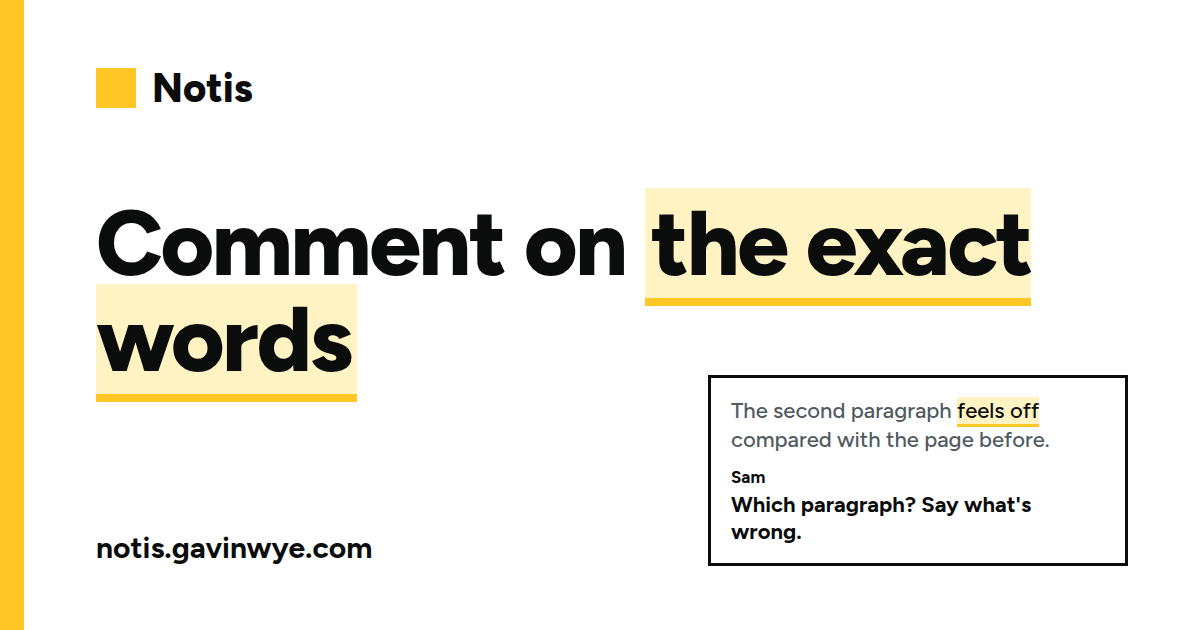
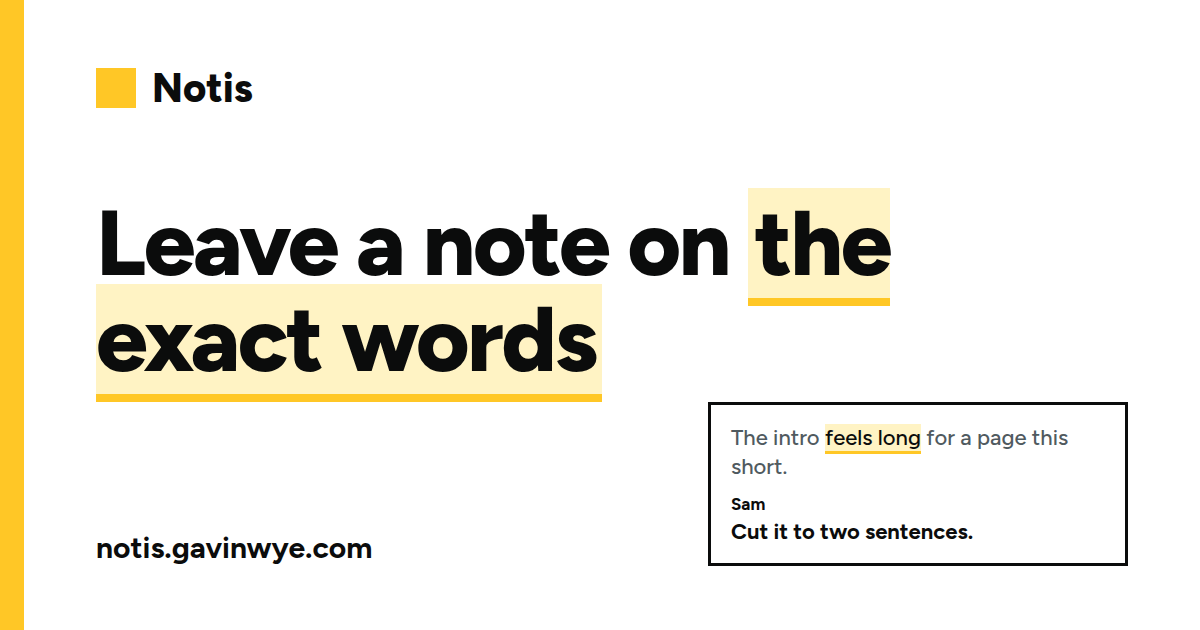
Site language: leave a note on the exact words (#54)
* Language: notes, not just comments, now it's called Notis

Heading, intro, why-it-exists, how it works, pin section, meta tags and
the share image now say note. The widget's own button labels still say
Comment; that follows once the accessibility work lands.

Claude-Session: https://claude.ai/code/session_01NFwn9QVqFSUsgDfbQNtENX

* Say it plainly: comments in Google Docs, for any web page

Claude-Session: https://claude.ai/code/session_01NFwn9QVqFSUsgDfbQNtENX

* Footer: a Request a feature link

Claude-Session: https://claude.ai/code/session_01NFwn9QVqFSUsgDfbQNtENX

* Hero: the Google Docs line goes after the intro, in italics, as its own paragraph

Claude-Session: https://claude.ai/code/session_01NFwn9QVqFSUsgDfbQNtENX

* Heading: highlight sits behind the text so it can't hide descenders

Claude-Session: https://claude.ai/code/session_01NFwn9QVqFSUsgDfbQNtENX

---------

Changed region(s): [[0.0617, 0.2714, 0.8633, 0.6635], [0.5858, 0.573, 0.925, 0.8746]]

diff --git a/site/index.html b/site/index.html
@@ -4,22 +4,22 @@
 <meta charset="UTF-8">
 <meta name="viewport" content="width=device-width, initial-scale=1">
 <title>Notis</title>
-<meta name="description" content="Select text on any page and leave a comment on those exact words. One script, one small function, no accounts.">
+<meta name="description" content="Comments in Google Docs, for any web page. Select text and leave a note on those exact words. One script, one small function, no accounts.">
 <link rel="canonical" href="https://notis.gavinwye.com/">
 <meta property="og:site_name" content="Notis">
 <meta property="og:type" content="website">
 <meta property="og:url" content="https://notis.gavinwye.com/">
-<meta property="og:title" content="Notis: comment on the exact words">
-<meta property="og:description" content="Select text on any page and leave a comment on those exact words. One script, one small function, no accounts.">
+<meta property="og:title" content="Notis: leave a note on the exact words">
+<meta property="og:description" content="Select text on any page and leave a note on those exact words. One script, one small function, no accounts.">
 <meta property="og:image" content="https://notis.gavinwye.com/og.png">
 <meta property="og:image:width" content="1200">
 <meta property="og:image:height" content="630">
-<meta property="og:image:alt" content="Notis. Comment on the exact words. A comment box shows a note attached to the highlighted words feels off.">
+<meta property="og:image:alt" content="Notis. Leave a note on the exact words. A note box shows a note attached to the highlighted words feels long.">
 <meta name="twitter:card" content="summary_large_image">
-<meta name="twitter:title" content="Notis: comment on the exact words">
-<meta name="twitter:description" content="Select text on any page and leave a comment on those exact words. One script, one small function, no accounts.">
+<meta name="twitter:title" content="Notis: leave a note on the exact words">
+<meta name="twitter:description" content="Select text on any page and leave a note on those exact words. One script, one small function, no accounts.">
 <meta name="twitter:image" content="https://notis.gavinwye.com/og.png">
-<meta name="twitter:image:alt" content="Notis. Comment on the exact words. A comment box shows a note attached to the highlighted words feels off.">
+<meta name="twitter:image:alt" content="Notis. Leave a note on the exact words. A note box shows a note attached to the highlighted words feels long.">
 <link rel="icon" type="image/svg+xml" href="/favicon.svg">
 <link rel="icon" type="image/png" sizes="32x32" href="/favicon-32.png">
 <link rel="apple-touch-icon" href="/apple-touch-icon.png">
@@ -47,8 +47,9 @@
   nav a { white-space:nowrap; font-size:16px; font-weight:600; }
   nav a:hover { text-decoration:underline; }
   .hero { padding:64px 0 40px; }
-  h1 { font-size:clamp(34px,6vw,52px); line-height:1.1; letter-spacing:-.02em; font-weight:800; margin:0 0 20px; }
-  h1 mark { background:var(--mark); color:inherit; border-bottom:3px solid var(--markline); padding:0 .08em; }
+  h1 { font-size:clamp(34px,6vw,52px); line-height:1.1; letter-spacing:-.02em; font-weight:800; margin:0 0 20px; isolation:isolate; }
+  /* Behind the text: an inline highlight on the second line would otherwise paint over the descenders of the line above. */
+  h1 mark { position:relative; z-index:-1; background:var(--mark); color:inherit; border-bottom:3px solid var(--markline); padding:0 .08em; }
   .lede { font-size:21px; color:var(--muted); margin:0 0 28px; max-width:34em; }
   .try { background:var(--tint); border:1px solid var(--line); border-left:4px solid var(--markline); padding:16px 20px; font-size:17px; margin:0 0 8px; }
   .try b { font-weight:700; }
@@ -94,16 +95,17 @@
 
 <main class="wrap">
   <div class="hero">
-    <h1>Review a page by commenting on <mark>the exact words</mark>.</h1>
-    <p class="lede">Select text on any page and say what you think of it. The comment stays attached to those words, and everyone who opens the page sees it.</p>
+    <h1>Review a page by leaving a note on <mark>the exact words</mark>.</h1>
+    <p class="lede">Select text and leave a note on it. The note stays attached to those words, and everyone who opens the page sees it.</p>
+    <p class="lede"><em>Think comments in Google Docs, for any web page.</em></p>
     <p class="try"><b>Try it on this page.</b> Select any sentence here, then click the <b>Comment</b> button that appears.</p>
-    <p class="small">On this page, comments are saved in your browser only. On your own site they're shared.</p>
+    <p class="small">On this page, notes are saved in your browser only. On your own site they're shared.</p>
   </div>
 
   <section id="why-it-exists">
     <h2>Why it exists</h2>
-    <p>Reviewing a prototype by email gets you vague notes: "the second paragraph feels off". It's slow to work out which paragraph, and what was meant.</p>
-    <p>With this, the reviewer selects the words they mean and writes what's wrong. You get the words and the comment together, in one list, without anyone needing an account.</p>
+    <p>Feedback by email, in Slack or in a meeting isn't attached to anything. "The intro feels long" could mean one paragraph or the whole section, and with several reviewers the comments overlap, repeat each other or disagree.</p>
+    <p>With Notis, the reviewer selects the words they mean and leaves a note on them. You get the words and the note together, in one list, without anyone needing an account.</p>
     <p>Notis is Swedish for a short note.</p>
     <p>It started as a way to get quick reactions to early prototypes, from people who had no time for a tool.</p>
   </section>
@@ -111,14 +113,14 @@
   <section id="how-it-works">
     <h2>How it works</h2>
     <ol class="steps">
-      <li><b>Select.</b> A reviewer highlights text and writes a comment.</li>
-      <li><b>Discuss.</b> A side panel lists every thread. People reply, and resolve what's done.</li>
-      <li><b>Fix.</b> Open comments are plain JSON. You, a script or an AI assistant can read them, change the page, and mark them resolved.</li>
+      <li><b>Select.</b> A reviewer highlights text and leaves a note.</li>
+      <li><b>Discuss.</b> A side panel lists every note in page order. People reply, and resolve what's done.</li>
+      <li><b>Fix.</b> Open notes are plain JSON. You, a script or an AI assistant can read them, change the page, and mark them resolved.</li>
     </ol>
   </section>
 
-  <section id="pin-a-comment-to-an-image">
-    <h2>Pin a comment to an image</h2>
+  <section id="pin-a-note-to-an-image">
+    <h2>Pin a note to an image</h2>
     <p>Some things you can't select. Open the panel, choose <b>Pin on image</b>, then click the spot you mean. The pin stays at that point, even when the image is resized.</p>
     <p><img src="demo-form.svg" alt="Wireframe of a parking permit application form" width="640" height="400" style="max-width:100%;height:auto;border:2px solid var(--ink);display:block"></p>
     <p class="small">Try it on the wireframe above. Pins are saved in your browser only.</p>
@@ -128,7 +130,7 @@
     <h2>Add it to a page</h2>
     <p>One line before <code>&lt;/body&gt;</code>:</p>
     <pre><code>&lt;script src="/comments.js" defer&gt;&lt;/script&gt;</code></pre>
-    <p>Comments are stored by a small serverless function in the same repo. Deploy it to Netlify, set an admin token, and you're done. There's no database and nothing to build.</p>
+    <p>Notes are stored by a small serverless function in the same repo. Deploy it to Netlify, set an admin token, and you're done. There's no database and nothing to build.</p>
     <p><a href="https://github.com/gavinwye/notis.gavinwye.com#readme">Setup, options and the API are in the README.</a></p>
     <h3>Or ask an agent to do it</h3>
     <p>Paste this into Claude Code, Codex, Cursor or any coding agent that's working in your site's folder:</p>
@@ -140,8 +142,8 @@
   <section id="what-you-get">
     <h2>What you get</h2>
     <div class="cols">
-      <div><h3>Anchored to text</h3><p>Comments find their words again when the page loads, and survive small edits.</p></div>
-      <div><h3>Threads</h3><p>Replies, resolve and reopen, and a toggle for resolved ones.</p></div>
+      <div><h3>Anchored to text</h3><p>Notes find their words again when the page loads, and survive small edits.</p></div>
+      <div><h3>Replies</h3><p>Replies, resolve and reopen, and a toggle for resolved ones.</p></div>
       <div><h3>No accounts</h3><p>People type a name. You decide who can load the page.</p></div>
       <div><h3>One file, no dependencies</h3><p>The widget injects its own styles. It works with any site, any framework.</p></div>
     </div>
@@ -150,7 +152,7 @@
   <section id="what-it-doesnt-do">
     <h2>What it doesn't do</h2>
     <ul class="plain">
-      <li><b>No sign-in.</b> Anyone who can load the page can comment. Put review copies behind a password or a preview URL.</li>
+      <li><b>No sign-in.</b> Anyone who can load the page can leave a note. Put review copies behind a password or a preview URL.</li>
       <li><b>No notifications.</b> Nobody is emailed. You look at the panel or read the API.</li>
       <li><b>Not for busy pages.</b> It's built for a handful of reviewers, not a public comment section.</li>
     </ul>
@@ -158,7 +160,7 @@
 </main>
 
 <footer>
-  <div class="wrap">Made by <a href="https://gavinwye.com">Gavin Wye</a>. MIT licensed. <a href="https://github.com/gavinwye/notis.gavinwye.com">Source on GitHub</a>. <a href="https://github.com/gavinwye/notis.gavinwye.com/issues/new?template=bug_report.yml">Report a bug</a>. <a href="/version.json">Version <span id="site-version">0.2</span></a>, <a href="https://github.com/gavinwye/notis.gavinwye.com/blob/main/CHANGELOG.md">changelog</a>.</div>
+  <div class="wrap">Made by <a href="https://gavinwye.com">Gavin Wye</a>. MIT licensed. <a href="https://github.com/gavinwye/notis.gavinwye.com">Source on GitHub</a>. <a href="https://github.com/gavinwye/notis.gavinwye.com/issues/new?template=bug_report.yml">Report a bug</a>. <a href="https://github.com/gavinwye/notis.gavinwye.com/issues/new?template=feature_request.yml">Request a feature</a>. <a href="/version.json">Version <span id="site-version">0.2</span></a>, <a href="https://github.com/gavinwye/notis.gavinwye.com/blob/main/CHANGELOG.md">changelog</a>.</div>
 </footer>
 
 <script>

diff --git a/site-src/og.html b/site-src/og.html
@@ -21,11 +21,11 @@
 </style></head><body>
 <div class="frame">
   <div class="brand"><i></i>Notis</div>
-  <h1>Comment on <mark>the exact words</mark></h1>
+  <h1>Leave a note on <mark>the exact words</mark></h1>
   <div class="note">
-    <div class="q">The second paragraph <mark>feels off</mark> compared with the page before.</div>
+    <div class="q">The intro <mark>feels long</mark> for a page this short.</div>
     <div class="who">Sam</div>
-    <div class="c">Which paragraph? Say what's wrong.</div>
+    <div class="c">Cut it to two sentences.</div>
   </div>
   <div class="url">notis.gavinwye.com</div>
 </div>

diff --git a/README.md b/README.md
@@ -2,7 +2,7 @@
 
 [![CI](https://github.com/gavinwye/notis.gavinwye.com/actions/workflows/ci.yml/badge.svg)](https://github.com/gavinwye/notis.gavinwye.com/actions/workflows/ci.yml)
 
-Notis is Swedish for a short note. Select text on any page and leave a comment on it. A side panel lists every thread, with replies and resolve. Comments are shared with everyone who opens the page.
+Think comments in Google Docs, for any web page. Notis is Swedish for a short note: select text on a page and leave a note on it. A side panel lists every note, with replies and resolve, and everyone who opens the page sees the same list.
 
 It's one script on the page and one small serverless function behind it. No accounts, no database to set up, no build step.
 
@@ -16,7 +16,7 @@ It was built to get fast reactions to early prototypes.
 
 ## What you get
 
-- **Comments on the exact words.** Select text, write a comment. The highlight stays on that text if the page changes slightly.
+- **Notes on the exact words.** Select text, leave a note. The highlight stays on that text if the page changes slightly.
 - **Pins on images.** Choose Pin on image in the panel and click the spot you mean. The pin stays at that point when the image is resized.
 - **Threads.** Replies, resolve and reopen, and a toggle to show resolved ones.
 - **Shared.** Everyone who opens the page sees the same comments.

diff --git a/docs/PLAN.md b/docs/PLAN.md
@@ -10,7 +10,7 @@ Issues for each step are in the repo. Estimates are raw; no calibration is trust
 |---|---|
 | Code, README, issues | GitHub: `gavinwye/notis.gavinwye.com` (private until step 6) |
 | Website | Netlify project `notis-gavinwye`, base dir `site/`, domain `notis.gavinwye.com`; production deploys from `main`, every PR gets a deploy preview |
-| Blog post | drafted in the publisher desk (draft `imv2oih9lf5`, "Reviewing a page by commenting on the exact words"; copy in `docs/blog-post.md`), then a PR on `gavinwye/gavinwye.com` |
+| Blog post | drafted in the publisher desk (draft `imv2oih9lf5`, "Notis: leave a note on the exact words"; copy in `docs/blog-post.md`), then a PR on `gavinwye/gavinwye.com` |
 | Local folder | `~/com.gavinwye.notis` |
 
 ## Deploys
